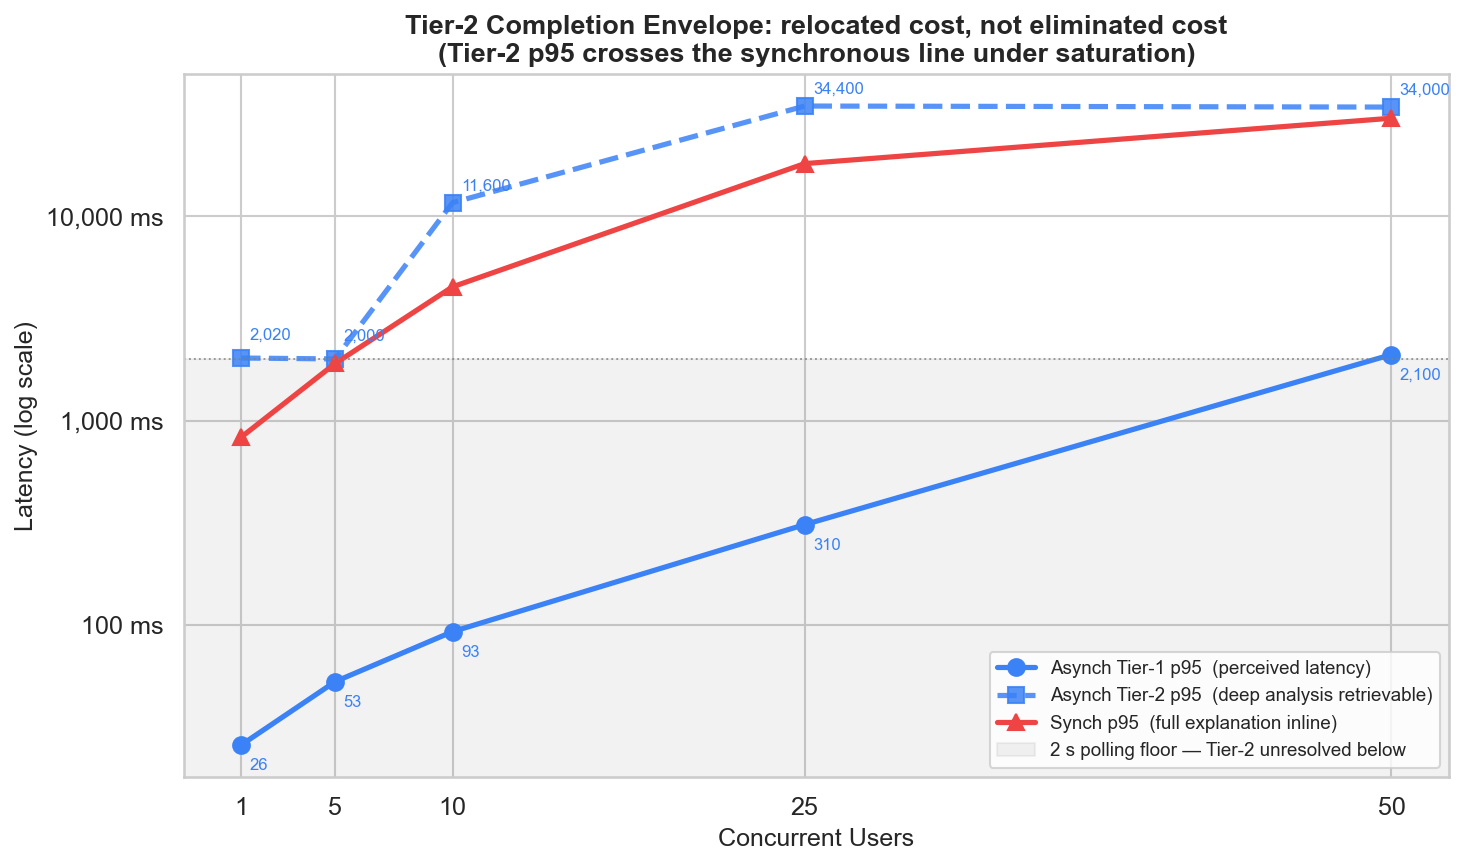
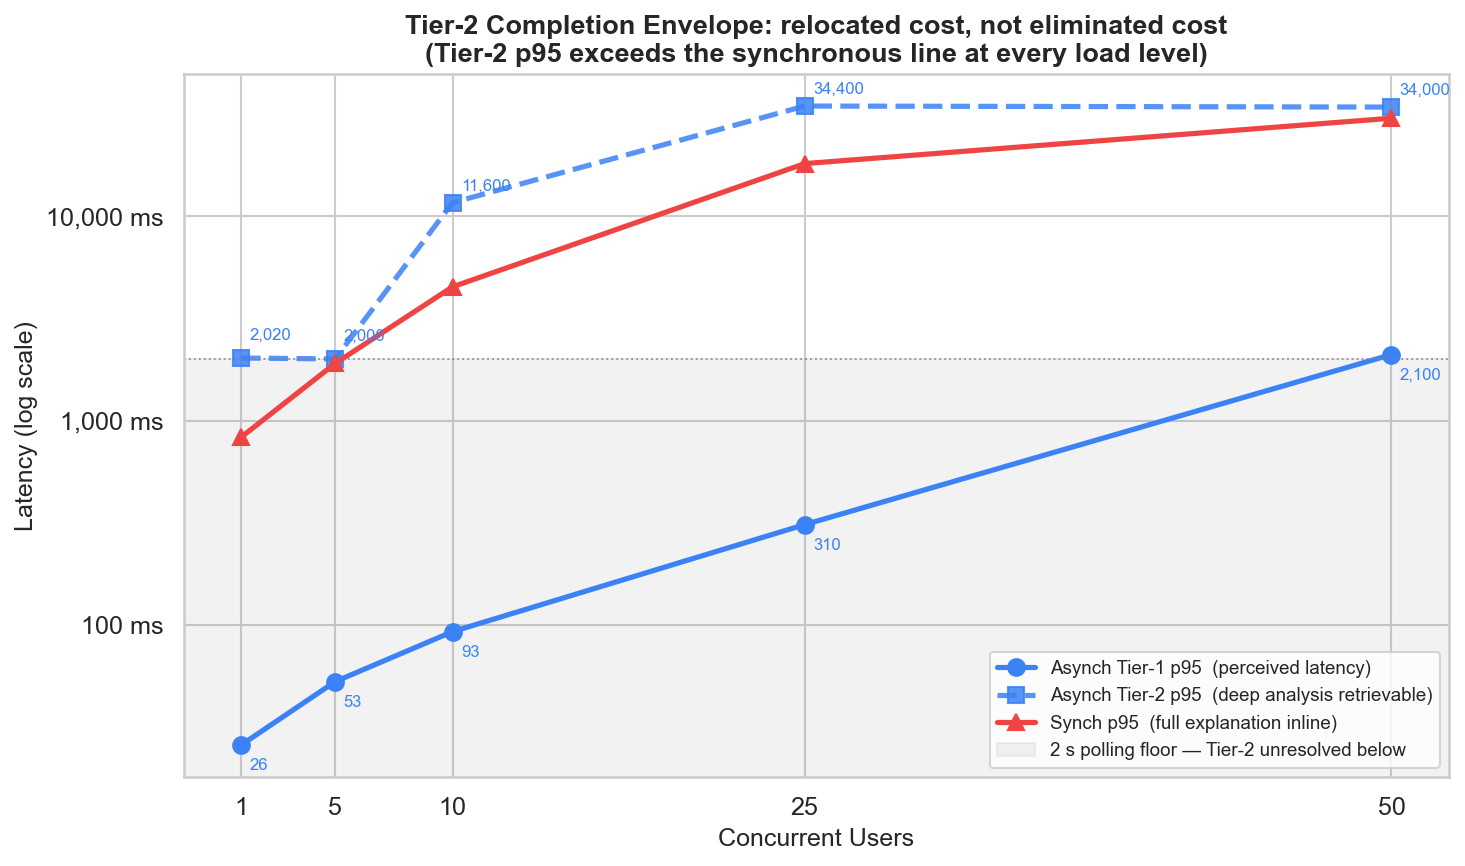
Add mean median latencies in mann_whitney_report

Changed region(s): [[0.3072, 0.0312, 0.8294, 0.0935]]

diff --git a/analysis/mann_whitney.py b/analysis/mann_whitney.py
@@ -487,12 +487,17 @@ def build_summary(all_data: dict) -> pd.DataFrame:
             rows.append({
                 "Architecture":      ARCH_LABELS[arch],
                 "Concurrent Users":  n,
-                "p50 (ms)":          round(d["p50"]),
+                # Mean AND median for every percentile: the report's tables quote
+                # medians (the hypothesis tests operate on them), so publishing
+                # only the means made the summary untraceable from the report.
+                "p50 mean (ms)":     round(d["p50"]),
+                "p50 median (ms)":   round(d["p50_median"]),
                 "p95 mean (ms)":     round(d["p95"]),
                 "p95 median (ms)":   round(d["p95_median"]),
                 "p95 min (ms)":      round(d["p95_min"]),
                 "p95 max (ms)":      round(d["p95_max"]),
-                "p99 (ms)":          round(d["p99"]),
+                "p99 mean (ms)":     round(d["p99"]),
+                "p99 median (ms)":   round(d["p99_median"]),
                 "Throughput (req/s)": round(d["req_s"], 2),
                 "Failure Rate (%)":   d["failure_rate"],
                 "Request Count":      d["request_count"],
@@ -708,7 +713,7 @@ def plot_tier2_envelope(all_data, tier2_by_level):
     """
     Figure 6 — Tier-2 completion envelope: async relocates the Tier-2 cost rather
     than eliminating it. Tier-1 stays far below the synchronous line at every
-    load, but Tier-2 completion crosses above it under saturation, so decoupling
+    load, but Tier-2 completion exceeds it at every measured level, so decoupling
     stops paying once the deep explanation is what the user actually needs.
     """
     xs = [n for n in CONCURRENCY_LEVELS if n in tier2_by_level and n in all_data["asynch"]]
@@ -747,7 +752,7 @@ def plot_tier2_envelope(all_data, tier2_by_level):
     ax.set_xlabel("Concurrent Users", fontsize=12)
     ax.set_ylabel("Latency (log scale)", fontsize=12)
     ax.set_title("Tier-2 Completion Envelope: relocated cost, not eliminated cost\n"
-                 "(Tier-2 p95 crosses the synchronous line under saturation)",
+                 "(Tier-2 p95 exceeds the synchronous line at every load level)",
                  fontsize=13, fontweight="bold")
     ax.legend(fontsize=9, loc="lower right")
     save(fig, "fig6_tier2_envelope.png")
